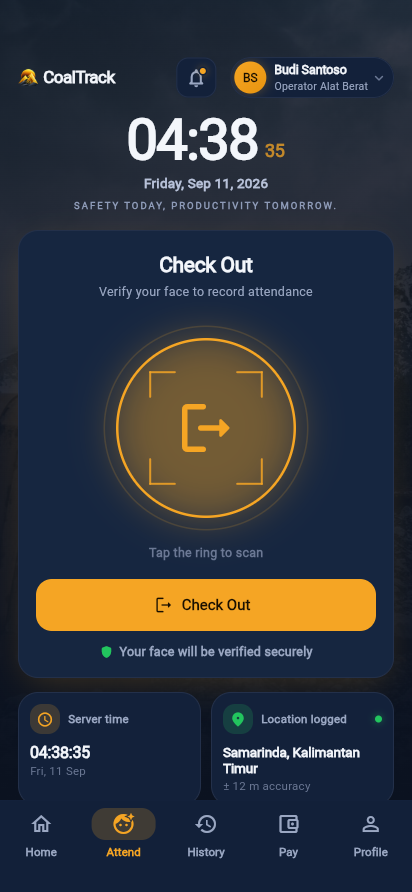
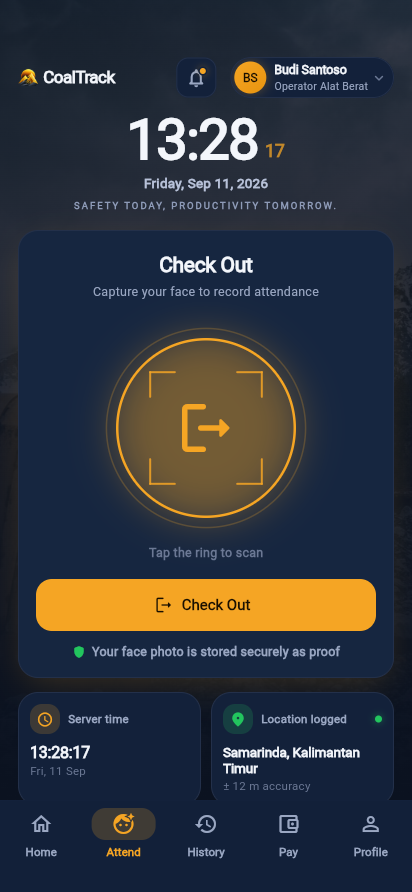
situs: perbarui screenshot absen 7 bahasa; luruskan istilah foto wajah di Terms & Privasi
Tangkapan absen memuat salinan lama 'verifikasi wajah'. Aplikasi merekam
foto wajah + tantangan gerak sebagai bukti; pencocokan otomatis belum ada.

diff --git a/terms.html b/terms.html
@@ -353,7 +353,7 @@ details p,details li{font-size:14px}
 
 <section id="privasi">
   <h2><span class="n">10</span>Privasi &amp; data</h2>
-  <p>Pemrosesan data pribadi diatur dalam <a href="privacy.html">Kebijakan Privasi</a>, yang merupakan bagian tak terpisahkan dari Ketentuan ini. Pemberi Kerja adalah Pengendali Data dan KBS adalah Prosesor Data. Verifikasi wajah saat absen memerlukan persetujuan eksplisit Anda yang dapat ditarik kapan saja melalui HR Pemberi Kerja atau email kami. Prosedur penghapusan akun dan data tersedia di bagian <a href="privacy.html#hapus-akun">Hapus Akun &amp; Data</a>.</p>
+  <p>Pemrosesan data pribadi diatur dalam <a href="privacy.html">Kebijakan Privasi</a>, yang merupakan bagian tak terpisahkan dari Ketentuan ini. Pemberi Kerja adalah Pengendali Data dan KBS adalah Prosesor Data. Pengambilan foto wajah saat absen memerlukan persetujuan eksplisit Anda yang dapat ditarik kapan saja melalui HR Pemberi Kerja atau email kami. Prosedur penghapusan akun dan data tersedia di bagian <a href="privacy.html#hapus-akun">Hapus Akun &amp; Data</a>.</p>
 </section>
 
 <section id="toko">
@@ -364,7 +364,7 @@ details p,details li{font-size:14px}
 
 <section id="jaminan">
   <h2><span class="n">12</span>Penafian jaminan</h2>
-  <p>Layanan disediakan “<strong>sebagaimana adanya</strong>” dan “<strong>sebagaimana tersedia</strong>”. Sejauh diizinkan hukum, KBS menafikan seluruh jaminan tersirat, termasuk jaminan kelayakan untuk tujuan tertentu. Akurasi GPS bergantung pada satelit, perangkat, dan lingkungan (area tambang dapat memiliki sinyal yang lemah); verifikasi wajah dapat menghasilkan penolakan keliru pada kondisi cahaya atau perangkat tertentu. Hasil Layanan merupakan <strong>bukti</strong> bagi keputusan Pemberi Kerja, bukan penetapan hukum.</p>
+  <p>Layanan disediakan “<strong>sebagaimana adanya</strong>” dan “<strong>sebagaimana tersedia</strong>”. Sejauh diizinkan hukum, KBS menafikan seluruh jaminan tersirat, termasuk jaminan kelayakan untuk tujuan tertentu. Akurasi GPS bergantung pada satelit, perangkat, dan lingkungan (area tambang dapat memiliki sinyal yang lemah); pengambilan foto wajah dapat gagal pada kondisi cahaya atau perangkat tertentu. Hasil Layanan merupakan <strong>bukti</strong> bagi keputusan Pemberi Kerja, bukan penetapan hukum.</p>
 </section>
 
 <section id="tanggung-jawab">
@@ -560,7 +560,7 @@ details p,details li{font-size:14px}
 
 <section id="privacy">
   <h2><span class="n">10</span>Privacy &amp; data</h2>
-  <p>Processing of personal data is governed by the <a href="privacy.html">Privacy Policy</a>, which forms an integral part of these Terms. The Employer is the Data Controller and KBS is the Data Processor. Face verification at check-in requires your explicit consent, which you can withdraw at any time through the Employer's HR or by emailing us. The account and data deletion procedure is set out in <a href="privacy.html#delete-account">Delete Account &amp; Data</a>.</p>
+  <p>Processing of personal data is governed by the <a href="privacy.html">Privacy Policy</a>, which forms an integral part of these Terms. The Employer is the Data Controller and KBS is the Data Processor. Capturing a face photo at check-in requires your explicit consent, which you can withdraw at any time through the Employer's HR or by emailing us. The account and data deletion procedure is set out in <a href="privacy.html#delete-account">Delete Account &amp; Data</a>.</p>
 </section>
 
 <section id="stores">
@@ -571,7 +571,7 @@ details p,details li{font-size:14px}
 
 <section id="warranty">
   <h2><span class="n">12</span>Disclaimer of warranties</h2>
-  <p>The Service is provided “<strong>as is</strong>” and “<strong>as available</strong>”. To the extent permitted by law, KBS disclaims all implied warranties, including fitness for a particular purpose. GPS accuracy depends on satellites, the device, and the environment (mine sites may have weak signal); face verification may produce false rejections under certain lighting or device conditions. Service outputs are <strong>evidence</strong> for the Employer's decisions, not legal determinations.</p>
+  <p>The Service is provided “<strong>as is</strong>” and “<strong>as available</strong>”. To the extent permitted by law, KBS disclaims all implied warranties, including fitness for a particular purpose. GPS accuracy depends on satellites, the device, and the environment (mine sites may have weak signal); face photo capture may fail under certain lighting or device conditions. Service outputs are <strong>evidence</strong> for the Employer's decisions, not legal determinations.</p>
 </section>
 
 <section id="liability">

diff --git a/privacy.html b/privacy.html
@@ -297,7 +297,7 @@ details p,details li{font-size:14px}
   </table></div>
   <p><strong>Kami tidak</strong> menggunakan SDK iklan, tidak melakukan pelacakan lintas aplikasi, dan tidak menggunakan layanan analitik pihak ketiga yang memprofilkan pengguna.</p>
   <div class="callout"><span class="ttl">Tentang kunci biometrik perangkat (Face ID / Touch ID / sidik jari)</span>
-    <p>Fitur membuka aplikasi dengan Face ID, Touch ID, sidik jari, atau face-unlock diproses <strong>sepenuhnya di perangkat Anda oleh sistem operasi</strong>. CoalTrack hanya menerima hasil “berhasil/gagal” dan <strong>tidak pernah menerima, menyimpan, atau mengirim</strong> data sidik jari atau geometri wajah dari fitur ini. Fitur ini opsional dan berbeda dari verifikasi wajah saat absen.</p>
+    <p>Fitur membuka aplikasi dengan Face ID, Touch ID, sidik jari, atau face-unlock diproses <strong>sepenuhnya di perangkat Anda oleh sistem operasi</strong>. CoalTrack hanya menerima hasil “berhasil/gagal” dan <strong>tidak pernah menerima, menyimpan, atau mengirim</strong> data sidik jari atau geometri wajah dari fitur ini. Fitur ini opsional dan berbeda dari pengambilan foto wajah saat absen.</p>
   </div>
 </section>
 
@@ -557,7 +557,7 @@ details p,details li{font-size:14px}
   </table></div>
   <p>We <strong>do not</strong> use advertising SDKs, do not track you across apps, and do not use third-party analytics that profile users.</p>
   <div class="callout"><span class="ttl">About device biometric unlock (Face ID / Touch ID / fingerprint)</span>
-    <p>Unlocking the app with Face ID, Touch ID, fingerprint, or face-unlock is processed <strong>entirely on your device by the operating system</strong>. CoalTrack only receives a “success/failure” result and <strong>never receives, stores, or transmits</strong> fingerprint or face-geometry data from this feature. It is optional and separate from face verification at check-in.</p>
+    <p>Unlocking the app with Face ID, Touch ID, fingerprint, or face-unlock is processed <strong>entirely on your device by the operating system</strong>. CoalTrack only receives a “success/failure” result and <strong>never receives, stores, or transmits</strong> fingerprint or face-geometry data from this feature. It is optional and separate from the face photo captured at check-in.</p>
   </div>
 </section>
 
